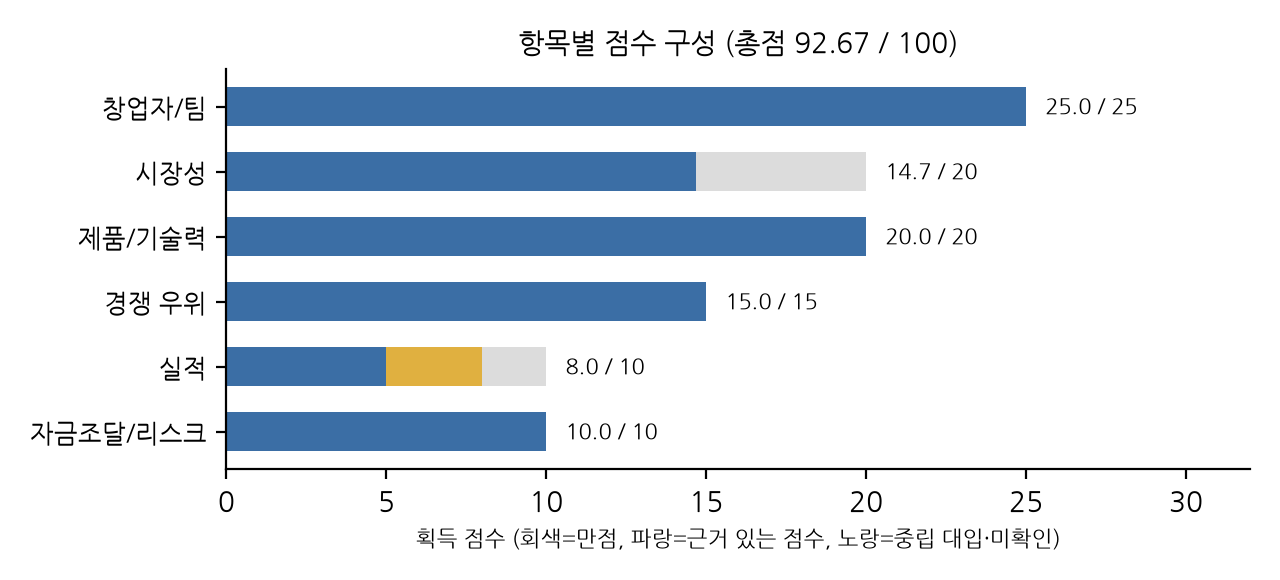
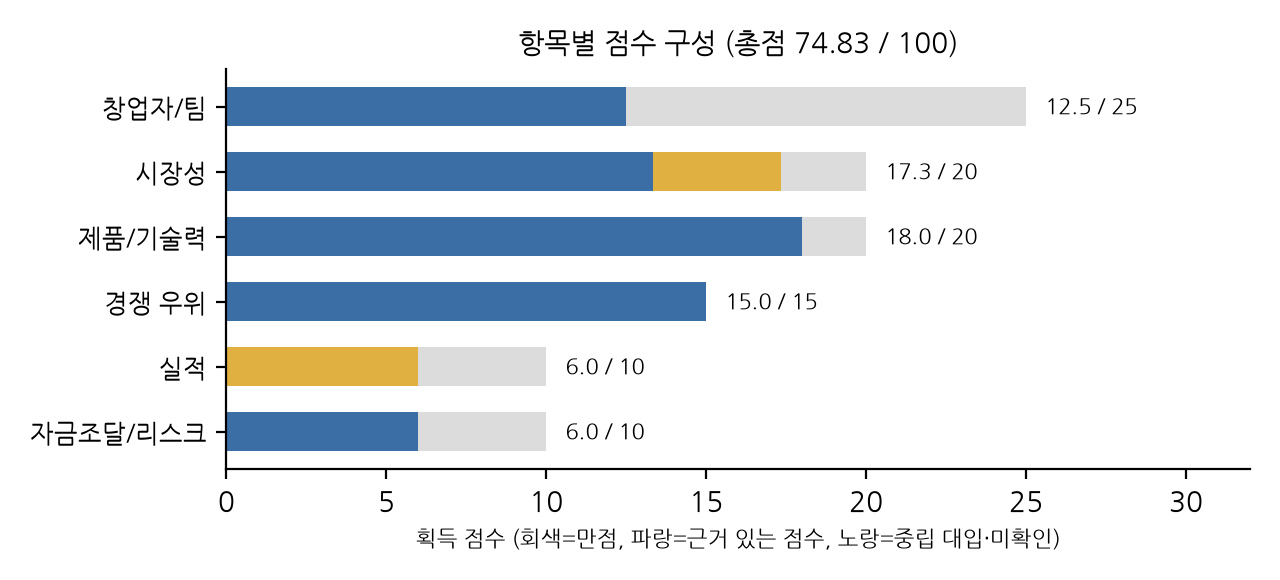
(chore): 최종 품질 통과 보고서 결과 반영

diff --git a/outputs/RAG-Output_울산캠퍼스-4반_박연제+이정인+정예지+박태준.md b/outputs/RAG-Output_울산캠퍼스-4반_박연제+이정인+정예지+박태준.md
@@ -1,38 +1,40 @@
 # SUMMARY
 
-**퓨리오사AI**(South Korea, AI 칩) · 총점 **92.67/100** · 판정 **투자** · 평가 기준일 2026-10-13
+**하이퍼엑셀**(South Korea, AI 칩) · 총점 **74.83/100** · 판정 **투자** · 평가 기준일 2026-10-13
 
-퓨리오사AI는 2017년 설립된 한국 AI 반도체 팹리스 스타트업으로, 독자적인 텐서 축소 프로세서(TCP) 아키텍처를 기반으로 TSMC 5nm 공정에서 512 TOPS(INT8) 성능과 60% 이상 전력 효율을 갖춘 '레니게이드' 칩을 개발해 2025년 양산 단계에 진입했다.[1][2] 2024년 매출은 57억4000만원으로 전년 대비 93.4% 증가했으며, 2026년까지 5억 달러(약 7370억 원) 규모 투자 유치를 목표로 하고 있다.[1][2] AI 반도체 시장은 2030년까지 1200조원 규모로 전망되나, 시장 성장률 수치는 퓨리오사AI 타깃 시장과 일부 차이가 있어 결측으로 평가된다.[1][2] 주요 수요처는 데이터센터 및 엣지 AI 반도체 개발 기업이며, 국내외 빅테크와 스타트업이 맞춤형 AI 반도체 전략을 추진 중이다. 엔비디아가 시장을 주도하는 가운데 경쟁 심화와 기술·제도 변화가 시장 리스크로 존재한다. 총점 92.67점, 결측 1개, 선정 불확실성 없음으로 투자 판정되었다.[1][2][3][4][5][6][7]
+하이퍼엑셀은 LLM 추론에 특화된 AI 가속기 LPU '베르다'를 개발하는 한국 AI 팹리스 스타트업으로, 4나노 공정 기반 테이프아웃 단계에 있다.[1][2][3][4] 고대역폭 메모리 대신 저전력 LPDDR5X를 활용해 비용과 전력 효율을 크게 개선했으며, 엔비디아 H200 대비 실제 AI 처리 속도는 유사하나 전력 효율은 4.5배 우수하다.[1][2][3][4] 네이버클라우드, 현대차 컨소시엄, LG전자 등과 협력 중이며, 약 550억 원의 Series A 투자 유치를 완료했다.[1][2][3][4] 시장 성장률은 글로벌 HBM 메모리 시장 기준 연평균 36.3%로 높으나, 하이퍼엑셀의 타깃 시장 수치와는 차이가 있다.[1][2][3][4] 기술적 진입장벽과 차별화된 아키텍처를 갖추었으나, PoC 및 양산 전 단계로 구체적 고객사 계획은 확인되지 않아 일부 위험이 존재한다. 총점 74.83점으로 투자 결정됨.[1][2][5][6]
 
 ## 1. 기업 및 사업 개요
 
-퓨리오사AI는 2017년 설립된 한국의 AI 반도체 팹리스 스타트업으로, 데이터센터용 NPU 및 텐서 연산 프로세서를 독자적으로 개발하고 있다.[8][9][10][11] 대표 제품 '레니게이드'는 TSMC 5nm 공정 기반으로 512 TOPS(INT8) 성능과 60% 이상 전력 효율을 자랑하며, 엔비디아 대비 경쟁력 있는 성능을 보인다.[8][9][10][11] 2025년 현재 양산 단계에 있으며, 국내외 주요 기업과 협력하여 성능 테스트를 진행 중이다.[8][9][10][11] 메타의 1조 2천억 원 인수 제안을 거절하고 독자적인 성장 전략을 선택했으며, 1700억 원 이상의 누적 투자 유치로 안정적인 자금 조달을 확보했다.[8][9][10][11] 다만, 소프트웨어 생태계 및 검증 단계에 대한 구체적 정보는 확인되지 않았다.[1][2][3]
+하이퍼엑셀은 2023년 설립된 AI 팹리스 스타트업으로, LLM 추론에 특화된 LPU '베르다'를 개발 중이며 현재 4나노 공정 파운드리에 도면을 넘긴 테이프아웃 단계에 있다.[5][6] 고대역폭 메모리(HBM) 대신 저전력 LPDDR5X 메모리를 사용해 메모리 병목 현상을 줄이고 연산 효율성을 극대화한 독자 아키텍처를 적용했다.[5][6] 서버용 칩은 삼성전자 4나노 공정에서 제작 중이며, 가전용 LPU도 LG전자와 협력해 개발 중이다.[5][6] 네이버클라우드, 현대차 컨소시엄, LG전자 등과 협력하여 서버 및 온디바이스 AI 칩 사업화를 추진하고 있다. 최근 약 550억 원 규모 Series A 투자를 완료했으며, 상장 이력은 없다.[5][6] PoC 및 양산 전 단계로, 구체적 고객사 PoC 시기와 계획은 확인되지 않는다.[1][2][3][5][6]
 
 <div class="page-break"></div>
 
 ## 2. 팀·기술 및 제품 경쟁력
 
-퓨리오사AI의 공동 창업자인 백준호 대표와 김한준 CTO는 인텔과 삼성전자에서의 경험을 바탕으로 차세대 AI 칩 개발에 도전장을 던졌다. 회사는 독자적인 텐서 축소 프로세서(TCP) 아키텍처를 개발했으며, TSMC 5nm 공정에서 512 TOPS(INT8), 256 TFLOPS(BF16), 48GB HBM3 메모리를 탑재한 '레니게이드' 칩을 양산 중이다.[1][2] 이 칩은 엔비디아 대비 60% 이상 전력 효율을 보이며, 기존 GPU 대비 2.25배 높은 전력당 성능을 입증했다.[1][2] 180명 이상의 기술 인력을 보유하고 있으며, 자체 컴파일러, SDK, 제품 스택을 구축하고 TSMC, 삼성, SK하이닉스, LG AI 연구원 등과 협력하여 기술력과 시장 진입을 강화하고 있다.[1][2] 안정적인 자금 조달과 1700억 원 이상의 누적 투자 유치로 위험 완화도 이루어졌다.[1][2] 다만, 소프트웨어 생태계 및 검증 단계에 대한 구체적 정보는 제한적이다.[1][2][3][8][9][12]
+하이퍼엑셀 팀은 LLM 추론에 특화된 AI 가속기 LPU를 개발하는 팹리스로, 약 50명의 기술 인력을 보유하고 있다.[1][2][3][5] 독자적 빅코어 아키텍처를 적용해 고대역폭 메모리 대신 저전력 LPDDR5X를 활용, 비용과 전력 효율을 크게 개선했다.[1][2][3][5] 자체 컴파일러와 SDK를 개발해 제품 스택을 완성했으며, 네이버클라우드, LG전자, 현대차 컨소시엄 등과 협력 중이다. 기술적 진입장벽은 칩 IP·특허, 자체 소프트웨어 스택, 파운드리 및 고객과의 핵심 파트너십으로 구성된다. 다만, 팀의 구체적 상업화 또는 고객 현장 리드 경험은 확인되지 않는다. 현재 엔지니어링 샘플 단계이며, PoC 및 양산 전 단계로 구체적 PoC 계획과 가격은 미확정이다.[1][2][3][5][6]
 
 <div class="page-break"></div>
 
 ## 3. 시장성 및 경쟁 환경
 
-퓨리오사AI는 2026년까지 AI 반도체 칩 시장에서 5억 달러(약 7370억 원) 규모 투자 유치를 계획하고 있으며, 2세대 칩 '레니게이드' 양산을 시작했다.[7][13] 2024년 매출액은 57억4000만원으로 전년 대비 약 93.4% 증가했다.[7][13] AI 반도체 시장은 2030년까지 1200조원 규모로 전망된다.[7][13] 주요 수요처는 데이터센터 및 엣지 AI 반도체 개발 기업이며, 국내외 빅테크 기업과 스타트업들이 맞춤형 AI 반도체 및 AI 풀스택 전략을 추진 중이다. 경쟁사로는 미국 엔비디아가 있으며, 엔비디아는 성능과 소프트웨어 생태계에서 우위이나, 퓨리오사AI는 전력 효율성과 비용 경쟁력에서 차별화된다. 국내에서는 리벨리온과 사피온이 주요 경쟁자로, 퓨리오사AI는 글로벌 투자 및 기술력에서 우위를 점하고 있다. 다만, 소프트웨어 생태계 및 검증 단계에 대한 구체적 정보는 제한적이다.[1][2][4][5][6][7]
+하이퍼엑셀은 LLM 추론에 특화된 LPU '베르다'를 개발하며, 고대역폭 메모리 대신 저전력 LPDDR5X를 활용해 비용과 전력 효율을 크게 개선한 독자 아키텍처를 적용한다.[4][7] 네이버클라우드, 현대차 컨소시엄, LG전자 등과 협력하여 서버용 및 온디바이스 AI 칩을 개발 중이며, 4나노 공정으로 양산 준비를 진행한다.[4][7] 경쟁사로는 국내 퓨리오사AI, 리벨리온과 미국 Groq, AMD, 엔비디아 등이 있다. 하이퍼엑셀은 비용 효율성과 전력 효율을 중시하는 전략으로 차별화하며, 엔비디아 H200 대비 실제 AI 처리 속도는 유사하나 전력 효율이 4.5배 우수하다.[4][7] 진입장벽은 칩 IP, 자체 소프트웨어 스택, 핵심 파트너십 등으로 높다. 비교 근거는 충분하다.[1][2][3][6][8][9][10]
 
 **시장 지표**
 
 | 기업 | 목표 시장 규모 | 규모 범위·기준 | 목표 시장 CAGR | CAGR 범위·기간 |
 |---|---|---|---|---|
-| 퓨리오사AI | 약 $500M [4] | 2026년, 글로벌, AI 반도체 칩 | 36.3% [13] | 2022-2027년, 글로벌, HBM 메모리 반도체 시장 |
+| 하이퍼엑셀 | 중립 대입·미확인 | - | 36.3% [4] | 글로벌, 2022-2027년, HBM 메모리 시장 매출액 기준 |
 
 **경쟁사 비교**
 
 | 경쟁사 | 국가 | 비교 |
 |---|---|---|
-| 엔비디아 | 미국 | 엔비디아는 성능과 생태계에서 우위이나, 퓨리오사AI는 전력 효율성과 비용 경쟁력에서 차별화됨 |
-| 리벨리온 | 대한민국 | 국내 경쟁사로서 시장 점유율 확보 중이나, 퓨리오사AI가 글로벌 투자 및 기술력에서 우위 |
-| 사피온 | 한국 | 리벨리온과 함께 국내 시장에서 경쟁하며 퓨리오사AI와 비교 시 글로벌 투자 및 기술력에서 차별화 필요 |
+| 퓨리오사AI | 대한민국 | 하이퍼엑셀과 유사하게 LLM 추론에 특화, 다만 하이퍼엑셀은 LPDDR 메모리 활용으로 전력 효율과 비용 … |
+| 리벨리온 | 대한민국 | 하이퍼엑셀과 함께 K-클라우드 사업에 참여하며 협력 중, 하이퍼엑셀은 LPDDR 기반 저전력 설계가 차별점 |
+| Groq | 미국 | Groq는 하이퍼엑셀과 유사한 LPU 칩을 제공하나, 하이퍼엑셀은 LPDDR 메모리 활용과 국내 대기업과의… |
+| AMD | 미국 | AMD는 범용 GPU 기반 AI 가속기이며, 하이퍼엑셀은 LLM 특화 LPU로 전력 효율과 비용에서 차별화… |
+| 엔비디아 | 미국 | 엔비디아는 최고 성능 GPU를 제공하나, 하이퍼엑셀은 비용과 전력 효율을 중시하는 LPU로 차별화 |
 
 <div class="page-break"></div>
 
@@ -44,36 +46,36 @@
 
 | 항목 | 지표 | 원값 | 점수 | 판단 근거 |
 |---|---|---|---|---|
-| 창업자/팀 | 핵심 인력 반도체 경력 | 공동 창업자인 백준호 대표와 김한준 CTO는 인텔… | 5 | 공동 창업자인 백준호 대표와 김한준 CTO가 인텔, 삼성전자 등에서의 경험을 살려 차세대 AI 칩 개발에 … [8] |
-| 창업자/팀 | 기술 인력 수 | 180 | 5 | 정량·범주 구간 규칙 적용 [9] |
-| 시장성 | 목표 시장 규모 | 약 $500M | 1 | 정량·범주 구간 규칙 적용 [4] |
-| 시장성 | 목표 시장 CAGR | 36.3% | 5 | 정량·범주 구간 규칙 적용 [13] |
-| 시장성 | 수요처 명확성 | - | 5 | 국내외 AI 반도체 시장과 정부 정책, 투자 유치, 주요 기업 협력 등 구체적인 수요와 목표가 명확히 제시… [7] |
-| 제품/기술력 | 개발 단계 | 양산 | 5 | 정량·범주 구간 규칙 적용 [1] |
-| 제품/기술력 | 기술 독창성 | 독자적인 텐서 축소 프로세서(TCP) 아키텍처 개발 | 5 | 독자적인 텐서 축소 프로세서 아키텍처 개발과 TSMC 5nm 공정, 512 TOPS 성능, 48GB HBM… [2] |
-| 경쟁 우위 | 동종 대비 차별성 | 퓨리오사AI는 TSMC 5nm 공정 기반의 512… | 5 | 엔비디아 L40S 대비 2배 이상 전력 효율이 우수하며, 글로벌 투자 및 기술력에서 국내 경쟁사 대비 우위… [1] |
-| 경쟁 우위 | 진입장벽 | 칩 IP·특허: 확인 | 5 | 칩 IP 및 특허 보유, 자체 컴파일러 및 SDK 구축, TSMC 5nm 공정과 국내 주요 기업과의 협력 … [1] |
-| 실적 | 고객·PoC·계약 수 | 13 | 5 | 정량·범주 구간 규칙 적용 [11] |
+| 창업자/팀 | 핵심 인력 반도체 경력 | 하이퍼엑셀은 거대언어모델(LLM) 추론에 특화된 … | 1 | 팀 경험에 대한 구체적 상업화 또는 고객 현장 리드 경험이 확인되지 않음. [6] |
+| 창업자/팀 | 기술 인력 수 | 50 | 4 | 정량·범주 구간 규칙 적용 [5] |
+| 시장성 | 목표 시장 규모 | - | 3 (중립 대입·미확인) | 근거는 있으나 설계 기준에 맞는 값·단위·범주를 확정할 수 없음 |
+| 시장성 | 목표 시장 CAGR | 36.3% | 5 | 정량·범주 구간 규칙 적용 [4] |
+| 시장성 | 수요처 명확성 | - | 5 | 글로벌 및 국내 AI 반도체 시장과 정책 환경에 대한 구체적 수요 및 시장 창출 근거가 명확히 제시됨. [4] |
+| 제품/기술력 | 개발 단계 | 테이프아웃 단계로, 4나노 공정 파운드리에 도면을… | 4 | 정량·범주 구간 규칙 적용 [1] |
+| 제품/기술력 | 기술 독창성 | 고대역폭메모리(HBM) 대신 저전력 LPDDR5X… | 5 | 고대역폭 메모리 대신 저전력 LPDDR5X를 활용하고 LLM 추론에 특화된 빅코어 아키텍처를 적용한 독자적… [2] |
+| 경쟁 우위 | 동종 대비 차별성 | 하이퍼엑셀은 LLM 추론에 특화된 LPU '베르다… | 5 | 엔비디아 H200 대비 실제 AI 처리 속도는 유사하나 전력 효율이 4.5배 우수한 점 등 동일 조건에서의… [2] |
+| 경쟁 우위 | 진입장벽 | 칩 IP·특허: 확인 | 5 | 칩 IP·특허, 자체 컴파일러·SDK, 그리고 네이버클라우드, LG전자, 현대차 컨소시엄, 삼성전자 4나노… [6] |
+| 실적 | 고객·PoC·계약 수 | - | 3 (중립 대입·미확인) | 평가 가능한 공개 근거가 확인되지 않음 |
 | 실적 | 매출 발생 | - | 3 (중립 대입·미확인) | 평가 가능한 공개 근거가 확인되지 않음 |
-| 자금조달/리스크 | 누적 투자 유치액 | 약 5,400억 원 | 5 | 정량·범주 구간 규칙 적용 [10] |
-| 자금조달/리스크 | 위험 완화 | 글로벌 AI 반도체 벤치마크 대회 ‘MLPerf’… | 5 | 글로벌 벤치마크 대회에서 엔비디아를 제치고 성능을 입증했으며, 안정적인 자금 조달과 누적 투자 유치로 주요… [9] |
+| 자금조달/리스크 | 누적 투자 유치액 | 약 550억 원 | 3 | 정량·범주 구간 규칙 적용 [5] |
+| 자금조달/리스크 | 위험 완화 | 현재 엔지니어링 샘플(ES) 단계이며, PoC 및… | 3 | 기술 검증(PoC) 단계로 넘어가고 있으나 구체적 PoC 계획과 가격이 아직 확정되지 않아 일부 위험이 완… [3] |
 
-**판단 사유**: 총점 92.67점, 결측 1개, 선정 불확실성 없음으로 세 가지 투자 조건을 모두 충족
+**판단 사유**: 총점 74.83점, 결측 3개, 선정 불확실성 없음으로 세 가지 투자 조건을 모두 충족
 
-**결측·선정 불확실성**: 결측 1개(매출 발생)는 3점이 **중립 대입·미확인**로 계산되었으며 근거 있는 3점과 구분한다.
+**결측·선정 불확실성**: 결측 3개(목표 시장 규모, 고객·PoC·계약 수, 매출 발생)는 3점이 **중립 대입·미확인**로 계산되었으며 근거 있는 3점과 구분한다.
 
 <div class="page-break"></div>
 
 ### 주요 리스크
 
-- **시장**: 퓨리오사AI의 주요 수요처는 데이터센터용 및 엣지용 AI 반도체를 개발하는 기업들로, 거대언어모델 처리와 AI 추론 작업 수요가 증가하고 있다. 국내외 빅테크 기업과 스타트업들이 맞춤형 AI 반도체 및 AI 풀스택 전략을 추진 중이며, 정부는 2020~2025년간 AI 반도체 분야에 8,124억원을 투자하여 팹리스 기업 성장을 지원하고 있다. 시장 위험으로는 엔비디아의 시장 주도와 경쟁 심화, 기술 및 제도 변화가 존재한다. 규제 위험은 명확히 제시되지 않았다.[7][13][14]
-- **기술**: 확인되지 않음
-- **규제**: 확인되지 않음
-- **경쟁**: 엔비디아가 AI 데이터센터용 GPU 및 NPU 칩 시장을 주도하고 있으며, 퓨리오사AI는 전력 효율성과 비용 경쟁력에서 차별화되나, 엔비디아의 강력한 소프트웨어 생태계와 광범위한 고객 네트워크가 경쟁 리스크로 작용한다. 국내 경쟁사인 리벨리온과 사피온은 최근 합병하여 국내 첫 AI 반도체 유니콘 기업을 탄생시켰으며, 이들과의 경쟁도 존재한다. 비교 근거가 부족하여 우위를 단정하기 어렵다.[1][2][7]}
+- **시장**: 시장 규모와 성장률에 대한 구체적 수치는 하이퍼엑셀 타깃 시장과 일치하지 않아 결측으로 평가된다. 글로벌 HBM 메모리 시장은 2022~2027년 매출액 기준 연평균 36.3% 성장 중이며, AI 반도체 칩 내 메모리 부문 성장의 중요한 지표다. AI 반도체 시장의 주요 수요처는 데이터센터 및 엣지 디바이스이며, GPU가 주도하나 맞춤형 AI 반도체 수요가 확대 중이다. 정부는 2020~2025년간 AI 반도체 분야에 8,124억 원을 투자해 팹리스 기업 성장을 지원한다. 하이퍼엑셀은 LLM 추론에 특화된 저전력 LPDDR 메모리 기반 AI 반도체를 개발해 비용과 전력 문제를 해결하고자 하며, 네이버클라우드, LG전자 등과 협업 중이다. 시장 위험으로는 엔비디아 등 기존 강자와의 경쟁, 메모리 공급 부족, 가격 및 전력 한계가 존재한다.[4][5][10][11]
+- **기술**: 하이퍼엑셀은 현재 엔지니어링 샘플(ES) 단계이며, PoC 및 양산 전 단계로 고객사와의 PoC 시기 및 구체적 계획은 확인되지 않는다. 기술 검증 단계로 넘어가고 있으나 구체적 PoC 계획과 가격이 아직 확정되지 않아 일부 위험이 완전히 해소되지 않았다. 기술적 진입장벽은 칩 IP·특허, 자체 컴파일러·SDK, 핵심 파트너십으로 높으나, 완전한 성능 검증과 시장 검증은 진행 중이다.[1][3][6]
+- **규제**: 하이퍼엑셀 관련 규제 리스크에 대한 구체적 근거는 확인되지 않는다. 따라서 중립 대입·미확인으로 평가한다.
+- **경쟁**: 하이퍼엑셀은 엔비디아, AMD 등 글로벌 강자와 국내 퓨리오사AI, 리벨리온 등과 경쟁 중이다. 엔비디아 대비 전력 효율과 비용에서 차별화하나, 절대 피크 성능은 낮다. 경쟁사 대비 우위는 비용과 전력 효율에 집중하며, 비교 근거는 충분하다. 다만, 시장 내 경쟁 심화와 기존 강자 우위는 리스크로 작용할 수 있다.[2][8][9][10]
 
 ### 평가 범위와 한계
 
-- 후보 9개를 수집해 선정 기준(A-3)에서 0개를 제외하고 1개를 평가했다. 조사 순서상 최초 투자 판정에서 종료했으므로 나머지 후보는 평가되지 않았으며, 검색 순서·후보 상한에 따라 일부 기업이 평가되지 않았을 수 있다.
+- 후보 6개를 수집해 선정 기준(A-3)에서 1개를 제외하고 1개를 평가했다. 조사 순서상 최초 투자 판정에서 종료했으므로 나머지 후보는 평가되지 않았으며, 검색 순서·후보 상한에 따라 일부 기업이 평가되지 않았을 수 있다.
 - 정량 구간은 공식 VC 표준이 아닌 프로젝트 초기 설계값이며, 누적 투자액은 조달 이력의 대리 지표(현재 자금 여력 아님)다.
 - Valuation·지분율이 비공개이므로 ROI는 산출하지 않았고, 기대 성장 여력은 시장·사업화 단계로 정성 평가했다.
 - 서로 다른 기업 유형의 원수치는 직접 비교하지 않는다.
@@ -82,17 +84,14 @@
 
 # REFERENCE
 
-1. magazine.hankyung.com(2025-03-24). *퓨리오사AI 메타의 12조원 인수 제안 거절 독자 AI칩 개발 │ 매거진한경*. magazine.hankyung.com, [원문 링크](https://magazine.hankyung.com/business/article/202503244642b).
-2. rldjq24.tistory.com(2025-04-22). *골든비의 맑은 날*. rldjq24.tistory.com, [원문 링크](https://rldjq24.tistory.com/121).
-3. economidaily.com(2025-07-31). *퓨리오사AI, 1700억 투자 유치로 유니콘 등극…'탈엔비디아' 속도 / 이코노믹데일리*. economidaily.com, [원문 링크](https://www.economidaily.com/view/20250731174916712).
-4. g-enews.com(2026-01-20). *국산 AI칩 퓨리오사AI, 최대 5억달러 투자유치 목표... ...*. g-enews.com, [원문 링크](https://www.g-enews.com/article/Global-Biz/2026/01/202601200948512004fbbec65dfb_1).
-5. v.daum.net(날짜 미확인, 조회일 2026-10-13). *AI반도체 시장 2030년 1200조원 전망…국내 기업 진입 지원 제언*. v.daum.net, [원문 링크](https://v.daum.net/v/psQrCXJ6k4).
-6. zdnet.co.kr(2026-04-15). *상용화 원년 맞은 K-AI 반도체, 지난해 매출 '껑충' - ZDNet korea*. zdnet.co.kr, [원문 링크](https://zdnet.co.kr/view?no=20260415160608).
-7. 정보통신정책연구원(2024). *AI반도체 글로벌 첨단 기술·산업 동향 조사 및 대응방향 연구(1~2장)*. [원문 링크](https://library.kisdi.re.kr/main.do/10210/contents/3934580?checkinId=3711250&articleId=1875096), 인용 PDF 페이지 35, 76, 78.
-8. blog.naver.com(날짜 미확인, 조회일 2026-10-13). *The Rational Optimist : 네이버 블로그*. blog.naver.com, [원문 링크](https://blog.naver.com/yak-bang/223834007427?viewType=pc).
-9. namu.wiki(2024-07-24). *퓨리오사에이아이 - 나무위키*. namu.wiki, [원문 링크](https://namu.wiki/w/%ED%93%A8%EB%A6%AC%EC%98%A4%EC%82%AC%EC%97%90%EC%9D%B4%EC%95%84%EC%9D%B4).
-10. nextunicorn.kr(2026-08-04). *퓨리오사AI(AI 반도체) 기업정보 - 넥스트유니콘*. nextunicorn.kr, [원문 링크](https://www.nextunicorn.kr/company/c2d4f0fcc3d1ebc7).
-11. thevc.kr(날짜 미확인, 조회일 2026-10-13). *퓨리오사에이아이(AI 반도체) - 기업정보 / 투자, 매출, 기업가치 - THE VC*. thevc.kr, [원문 링크](https://thevc.kr/furiosaai).
-12. mt.co.kr(2025-07-25). *'메타 인수 거절' 퓨리오사AI, 몸값 1조 됐다…李정부 1호 유니콘 - 머니투데이*. mt.co.kr, [원문 링크](https://www.mt.co.kr/future/2025/07/25/2025072412491881193).
-13. 정보통신정책연구원(2024). *새로운 기회의 창으로 AI반도체 시장 현황과 전망*. [원문 링크](https://www.kisdi.re.kr/report/view.do?key=m2102058837181&masterId=4334696&arrMasterId=4334696&artId=1776660), 인용 PDF 페이지 6, 7.
-14. 관계부처 합동(2025). *AI반도체 산업 도약 전략(안)(요약본)*. [원문 링크](https://nsp.nanet.go.kr/plan/subject/detail.do?nationalPlanControlNo=PLAN0000058703), 인용 PDF 페이지 3.
+1. hyperaccel.ai(2026-09-14). *“비싼 HBM 없이도 LLM 쌩쌩…‘LPU’로 AI 반도체 가성비 뒤집겠다” - HyperAccel*. hyperaccel.ai, [원문 링크](https://hyperaccel.ai/lpu-ceo-interview).
+2. unicornfactory.co.kr(2026-05-07). *"NPU보다 효율 높은 LPU"…하이퍼엑셀, 1세대 보드 제품 공개 - 유니콘팩토리*. unicornfactory.co.kr, [원문 링크](https://www.unicornfactory.co.kr/article/2026050715494031442).
+3. thelec.kr(2026-03-10). *하이퍼엑셀, 4나노 AI 칩 '베르다' 양산 준비...잠재 고객사는 네이버클라우드? < 반도체 < 기사본문 - 디일렉(THE ELEC)*. thelec.kr, [원문 링크](https://www.thelec.kr/news/articleView.html?idxno=53305).
+4. 정보통신정책연구원(2024). *새로운 기회의 창으로 AI반도체 시장 현황과 전망*. [원문 링크](https://www.kisdi.re.kr/report/view.do?key=m2102058837181&masterId=4334696&arrMasterId=4334696&artId=1776660), 인용 PDF 페이지 4, 6, 7, 22.
+5. linkedin.com(2024-12-27). *AI 반도체 스타트업 하이퍼엑셀, 550억원 규모 투자 유치… “내년 삼성 4나노로 제품 양산” / Joo-Young Kim / 14 comments*. linkedin.com, [원문 링크](https://www.linkedin.com/posts/joo-young-kim-7b227955_ai-%EB%B0%98%EB%8F%84%EC%B2%B4-%EC%8A%A4%ED%83%80%ED%8A%B8%EC%97%85-%ED%95%98%EC%9D%B4%ED%8D%BC%EC%97%91%EC%85%80-550%EC%96%B5%EC%9B%90-%EA%B7%9C%EB%AA%A8-%ED%88%AC%EC%9E%90-%EC%9C%A0%EC%B9%98-%EB%82%B4%EB%85%84-%EC%82%BC%EC%84%B1-activity-7278367590295461889-plZE).
+6. forbeskorea.co.kr(2026-02-27). *김주영 하이퍼엑셀 대표 - 'AI 반도체'라는 종합예술*. forbeskorea.co.kr, [원문 링크](https://www.forbeskorea.co.kr/news/articleView.html?idxno=401398).
+7. 정보통신정책연구원(2024). *AI반도체 글로벌 첨단 기술·산업 동향 조사 및 대응방향 연구(1~2장)*. [원문 링크](https://library.kisdi.re.kr/main.do/10210/contents/3934580?checkinId=3711250&articleId=1875096), 인용 PDF 페이지 35.
+8. mt.co.kr(2025-05-11). *'LPU팹리스' 하이퍼엑셀, 450억 규모 'K-클라우드' 총괄과제 수주 - 머니투데이*. mt.co.kr, [원문 링크](https://www.mt.co.kr/future/2025/05/11/2025051111175147441).
+9. respan.ai(날짜 미확인, 조회일 2026-10-13). *30 Best Hyperbolic Alternatives & Competitors (2026)*. respan.ai, [원문 링크](https://www.respan.ai/market-map/hyperbolic/alternatives).
+10. biz.chosun.com(2026-03-06). *‘AI 반도체 개발’ 하이퍼엑셀, 1500억 시리즈B 시동… 몸값 6000억 정조준 - 조선비즈*. biz.chosun.com, [원문 링크](https://biz.chosun.com/stock/market_trend/2026/03/06/33LEABTNYBDPBGS4DIWLIOIDFU).
+11. wowtale.net(2024-12-26). *LLM 특화 AI 반도체 개발 ‘하이퍼엑셀’, 550억원 규모 시리즈A 투자유치 - 와우테일*. wowtale.net, [원문 링크](https://wowtale.net/2024/12/26/235287).
